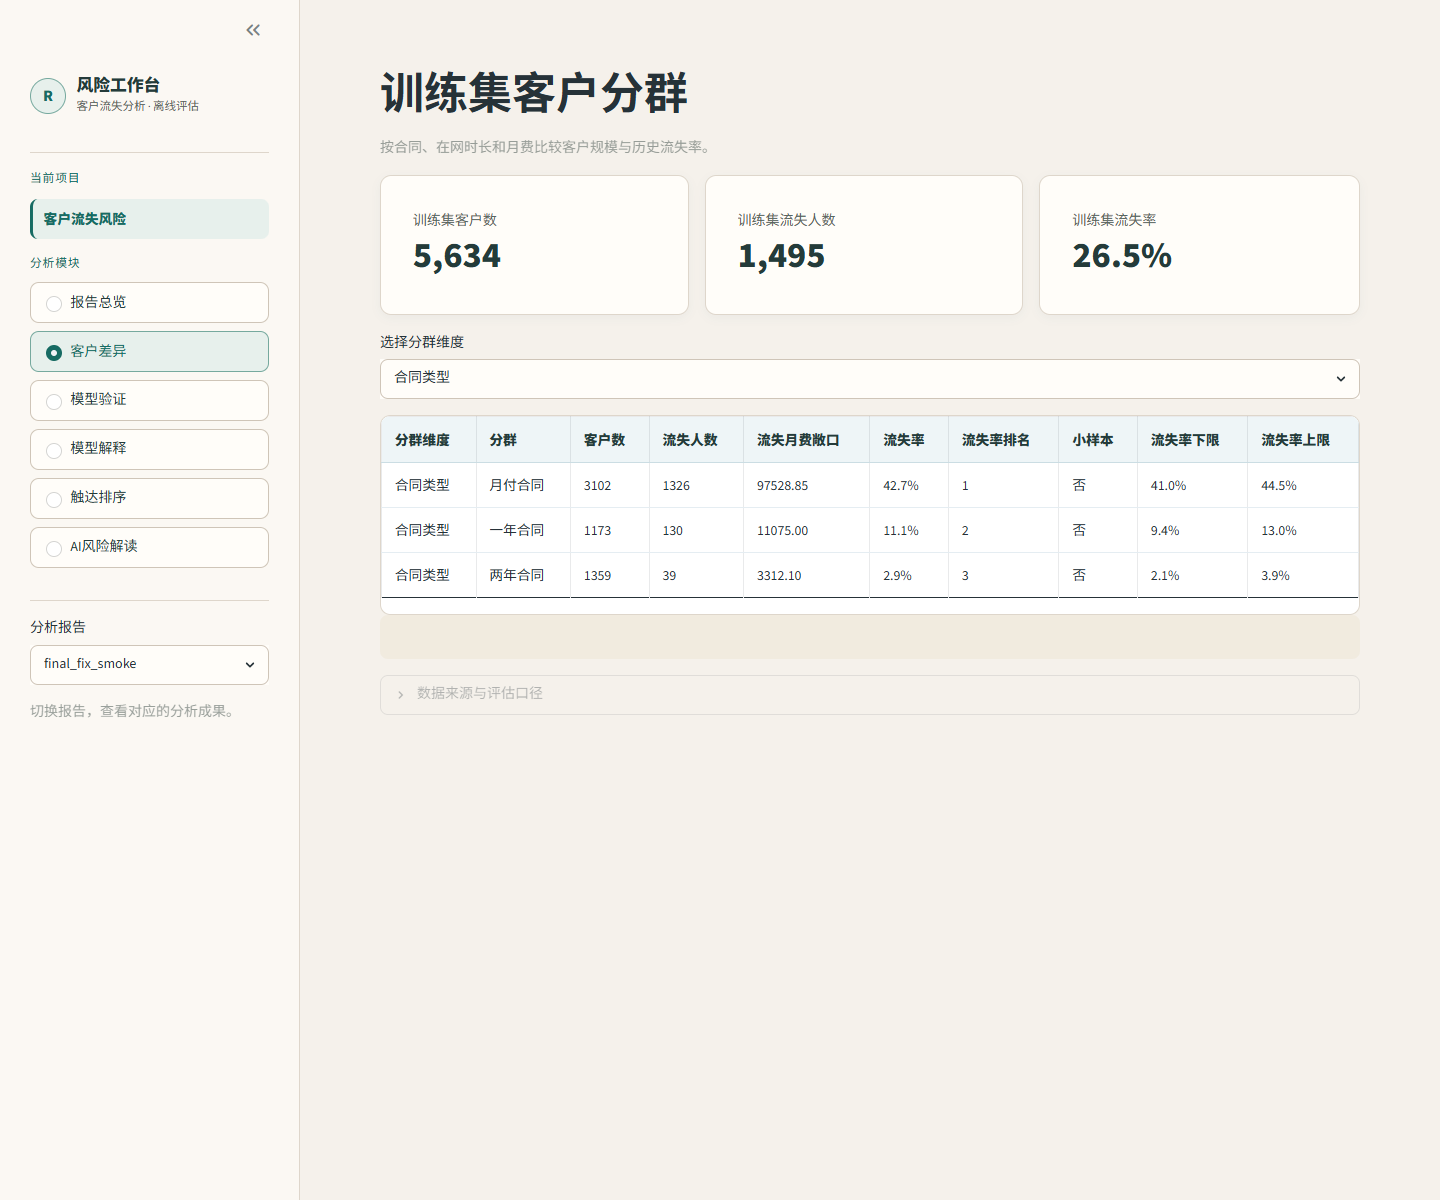
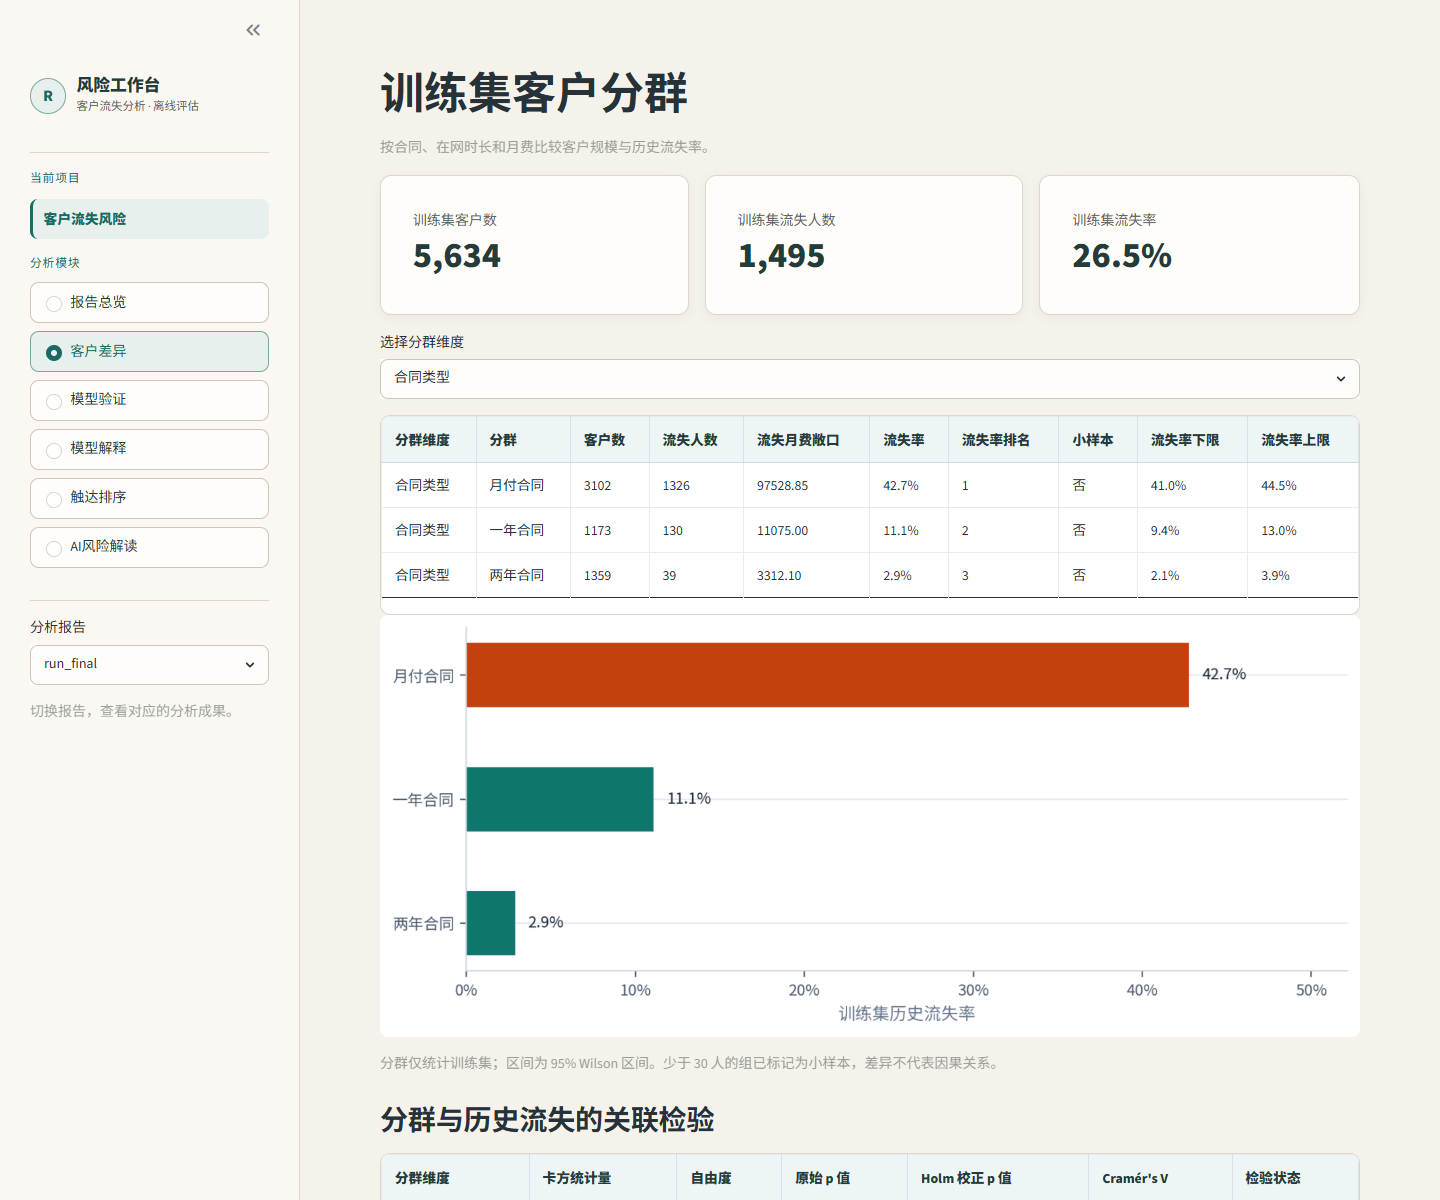
统一完整报告文档与展示

diff --git a/scripts/capture_demo.py b/scripts/capture_demo.py
@@ -23,11 +23,12 @@ def main():
     parser = argparse.ArgumentParser(description=__doc__)
     parser.add_argument("--browser", help="Optional path to an already installed Chromium executable")
     parser.add_argument("--report", default="run_final", help="Report directory name selected in the dashboard")
+    parser.add_argument("--url", default="http://127.0.0.1:8501", help="Dashboard URL")
     args = parser.parse_args()
     with sync_playwright() as playwright:
         browser = playwright.chromium.launch(executable_path=args.browser)
         page = browser.new_page(viewport={"width": 1440, "height": 1100}, device_scale_factor=1)
-        page.goto("http://127.0.0.1:8501", wait_until="domcontentloaded")
+        page.goto(args.url, wait_until="domcontentloaded")
         page.get_by_role("heading", name="电信客户流失预测与排序", exact=True).wait_for(timeout=60000)
         report = page.get_by_role("combobox", name="分析报告")
         report.click()

diff --git a/tests/test_project.py b/tests/test_project.py
@@ -802,7 +802,7 @@ def test_chinese_chart_font_without_system_fonts(monkeypatch):
 
 
 def test_deployment_demo_includes_matching_ai_context():
-    report = ROOT / "outputs" / "project_v1"
+    report = ROOT / "outputs" / "run_final"
     metrics = json.loads((report / "metrics.json").read_text(encoding="utf-8"))
     model = metrics["交叉验证"]["选择模型"]
     context = pd.read_csv(report / "ai_customer_context.csv", dtype={"customerID": "string"})

diff --git a/README.md b/README.md
@@ -21,16 +21,16 @@
 
 代码覆盖 SQL 分群检验、嵌套交叉验证、特征消融、概率校准对照和 Streamlit 看板。每个外层训练折只搜索一次基模型参数，再用固定模型交叉拟合 sigmoid 校准；阈值和预算情景只由训练集折外预测确定。
 
-![新版报告总览：LightGBM、历史留出AP与优先名单](docs/demo-v3-overview.png)
+![完整预算报告总览：LightGBM、历史留出AP与优先名单](docs/demo-v3-overview.png)
 
 ## 结果速览
 
-当前工作区的受控验证报告位于 [`outputs/final_fix_smoke`](outputs/final_fix_smoke/metrics.json)（随机种子 `42`，3 折 × 1 次重复、内层 2 折、1 次 Optuna trial、20 次 Bootstrap）。它用于验证修复后的代码通路，不替代完整预算实验。
+当前唯一权威报告位于 [`outputs/run_final`](outputs/run_final/metrics.json)（随机种子 `42`，5 折 × 3 次重复、内层 3 折、每折 30 次 Optuna trial、1000 次 Bootstrap）。
 
-- 该次运行的外层 AP 均值为：逻辑回归 `0.6630 ± 0.0068`、随机森林 `0.6562 ± 0.0217`、LightGBM `0.6463 ± 0.0124`，因此该次运行选择逻辑回归。小预算结果不用于代表完整实验性能。
-- 历史留出集按前 10% 名额（140 人）排序时，LightGBM 命中 111 名历史流失客户，Precision@140 为 `79.29%`，Lift 为 `2.99`。命中数是离线排序结果，不代表实际挽留成功。
+- 完整运行的外层 AP 均值为：逻辑回归 `0.6640 ± 0.0198`、随机森林 `0.6587 ± 0.0221`、LightGBM `0.6645 ± 0.0204`，因此按外层均值选择 LightGBM。
+- 历史留出集按前 10% 名额（140 人）排序时，LightGBM 命中 106 名历史流失客户，Precision@140 为 `75.71%`，Lift 为 `2.85`。命中数是离线排序结果，不代表实际挽留成功。
 - 校准是否用于最终推理由每个模型的外层 Brier 对照决定；该次运行逻辑回归使用原始模型，随机森林和 LightGBM 使用 sigmoid 校准模型。校准不保证在每次留出集上改善。
-- 风险排序与期望价值排序分别生成预算曲线；该次运行两者都选择 `45%` 名额，冻结情景净收益分别为 `52,043.74` 元和 `54,153.88` 元，仅表示这次受控运行的假设结果。
+- 风险排序与期望价值排序分别生成预算曲线；完整运行的价值排序选择 `45%` 名额，冻结情景净收益为 `53,399.68` 元，仅表示当前假设结果。
 
 > [!NOTE]
 > 这里的“命中”指历史留出样本的标签为流失。该留出集曾用于开发复核，并非独立盲测；区间条件于已拟合模型，不包含训练和选模不确定性。
@@ -41,7 +41,7 @@
 
 ```bash
 python -m pip install -r requirements.txt
-python -m streamlit run dashboard.py -- --output outputs/final_fix_smoke
+python -m streamlit run dashboard.py -- --output outputs/run_final
 ```
 
 <details>
@@ -97,7 +97,7 @@ python -m pytest -q
   </tr>
   <tr>
     <td width="100%" valign="top">
-      <img src="docs/demo-v3-policy.png" alt="触达排序：140人名额、109人命中和策略对照" width="100%" style="height: auto;" />
+      <img src="docs/demo-v3-policy.png" alt="触达排序：140人名额、106人命中和策略对照" width="100%" style="height: auto;" />
       <p align="center"><b>触达排序</b><br>对比 10% 固定容量下的各策略命中人数与 Lift，另单独列出训练 OOF 选出的冻结名额和 27 组成本收益假设。</p>
     </td>
   </tr>
@@ -136,7 +136,7 @@ python -m pytest -q
 
 | 模型 | 外层 AP（均值 ± 折间 SD） | 留出集 AP | 留出集 ROC-AUC | 训练 OOF 阈值 | 留出集 F1 |
 |:---|---:|---:|---:|---:|---:|
-| LightGBM | 0.6652 ± 0.0192 | 0.6695 | 0.8482 | 0.2677 | 0.6375 |
+| LightGBM | 0.6645 ± 0.0204 | 0.6589 | 0.8459 | 0.2677 | 0.6375 |
 | 逻辑回归 | 0.6636 ± 0.0188 | 0.6498 | 0.8453 | 0.2796 | 0.6075 |
 | 随机森林 | 0.6601 ± 0.0211 | 0.6578 | 0.8464 | 0.3262 | 0.6239 |
 
@@ -148,21 +148,21 @@ python -m pytest -q
 
 | 排序方式 | 命中历史流失人数 | Precision@140 | Recall@140 | Lift@140 |
 |:---|---:|---:|---:|---:|
-| LightGBM | 109 | 77.86% | 29.14% | 2.93 |
+| LightGBM | 106 | 75.71% | 28.07% | 2.85 |
 | 随机森林 | 107 | 76.43% | 28.61% | 2.88 |
 | 逻辑回归 | 105 | 75.00% | 28.07% | 2.83 |
 | 短在网时长规则 | 87 | 62.14% | 23.26% | 2.34 |
 | 随机选择期望 | 37.16 | 26.54% | 9.94% | 1.00 |
 
-LightGBM 的 Precision@140 为 `77.86%`，95% Bootstrap 区间为 `70.00%–85.00%`。区间按客户重采样并保持固定名额；它条件于已拟合模型，不包含训练、调参或模型选择带来的不确定性。
+LightGBM 的 Precision@140 为 `75.71%`。区间按客户重采样并保持固定名额；它条件于已拟合模型，不包含训练、调参或模型选择带来的不确定性。
 
 如果给外呼加上成本收益假设（基准设为触达成本 50 元/人、挽留成功多留存 12 个月、成功率 30%，用客户自己的 `MonthlyCharges` 近似月收入），代码会分别按风险分数和 `概率 × 月费` 价值代理选择名额，并在 `business_scenarios.csv` 中保留两套结果。月费不等于毛利或真实 CLV，这组数字只作敏感性参考。
 
 ### 特征消融与概率校准
 
-![与看板统一风格的校准小图、PR曲线和Brier对照](outputs/final_fix_smoke/calibration_pr.png)
+![与看板统一风格的校准小图、PR曲线和Brier对照](outputs/run_final/calibration_pr.png)
 
-固定逻辑回归家族、共享同一组外层折做四组对比；`ablation_summary.csv` 同时记录相对原始特征的配对差值区间和 Holm 校正 p 值（逐折明细见 [`ablation_folds.csv`](outputs/final_fix_smoke/ablation_folds.csv)）。
+固定逻辑回归家族、共享同一组外层折做四组对比；`ablation_summary.csv` 同时记录相对原始特征的配对差值区间和 Holm 校正 p 值（逐折明细见 [`ablation_folds.csv`](outputs/run_final/ablation_folds.csv)）。
 
 上图右表是校准前后的历史留出集 Brier 分数（越低越好）。最终是否使用校准模型以外层 Brier 决策，而不是根据这一个留出集反向选模；sigmoid 也不保证改善概率质量。
 
@@ -184,12 +184,12 @@ telco-churn-ranking/
 ├── sql/segment_analysis.sql        # 分群汇总、交叉表与窗口排名查询
 ├── optional_ai/assistant.py        # 客户资料解读模板与可选接口调用
 ├── tests/test_project.py           # 端到端流程与看板 AppTest 测试
-├── outputs/final_fix_smoke/        # 本轮修复后的受控验证报告
+├── outputs/run_final/             # 唯一完整预算权威报告
 └── docs/                           # 流程图、截图、运行文档与面试核对提纲
 ```
 
 <details>
-<summary>outputs/final_fix_smoke/ 报告文件清单</summary>
+<summary>outputs/run_final/ 报告文件清单</summary>
 
 <br>
 

diff --git a/docs/INTERVIEW_GUIDE.md b/docs/INTERVIEW_GUIDE.md
@@ -1,6 +1,6 @@
 # 面试与简历核对提纲
 
-本轮实现验证数值应与 `outputs/final_fix_smoke/` 的同一次真实数据报告一致；该目录是 3 折 × 1 次重复的受控预算产物，不代表完整实验性能；历史报告只作对照。
+本轮实现验证数值统一以 `outputs/run_final/` 的完整预算报告为准：5 折 × 3 次重复、内层 3 折、每折 30 次 trial、1000 次 Bootstrap。
 
 ## 两分钟介绍
 
@@ -28,17 +28,17 @@
 14. MySQL作用？训练集临时表分群与RANK窗口统计；默认SQLite降低复现门槛。当前快照不支持行为日志窗口和真实cohort，不能为展示SQL虚造时间。
 15. 哪些借助工具？按实际开发过程说明，必须能追踪每个模块输入、输出及防泄漏边界，不以清理工具痕迹代替理解代码。
 
-## 历史完整报告可核对数字
+## 完整预算报告可核对数字
 
-- LightGBM外层AP=0.6652±0.0192、历史留出AP=0.6695；LR外层AP=0.6636±0.0188。
-- LightGBM前140人命中109，Precision=77.86%（95% Bootstrap区间70%–85%）、Lift=2.93。三组模型的Holm校正p值均>0.05，不能写显著提升。
+- LightGBM外层AP=0.6645±0.0204、历史留出AP=0.6589；LR外层AP=0.6640±0.0198。
+- LightGBM前140人命中106，Precision=75.71%、Lift=2.85。三组模型的Holm校正p值均>0.05，不能写显著提升。
 - LR全部衍生组相比原始AP均值约+0.0031；这只是均值差，不宣称显著。
 - 校准使LightGBM历史留出Brier从0.1341变为0.1355；LR也变差，因此不能把“加入校准”写成“改善概率质量”。
 - 上述数字属于历史报告，不应与本轮受控预算重跑混用。远程 CI 未运行，不能声称生产级验证。
 
 ## 本轮实现验证
 
-- `outputs/final_fix_smoke/` 使用外层3折、1次重复、内层2折、1次 trial 和20次 Bootstrap 真实重跑；`metrics.json` 记录各模型外层 AP、Precision@10%、校准 Brier 决策、风险/价值双名额选择和冻结情景净收益。
+- `outputs/run_final/` 使用完整预算真实重跑；`metrics.json` 记录各模型外层 AP、Precision@10%、校准 Brier 决策、风险/价值双名额选择和冻结情景净收益。
 - 本轮输出同时包含 `budget_training_oof.csv`（纯风险排序）和 `budget_training_oof_value.csv`（风险×月费价值代理排序），两者目标不同，不能混作同一命中率结论。
 
 ## 简历模板（数值对应本次报告）

diff --git a/docs/RUNNING.md b/docs/RUNNING.md
@@ -91,7 +91,7 @@ python run_project.py --backend mysql --output outputs/run_mysql_new
 python -m streamlit run dashboard.py
 ```
 
-看板按最新完整报告自动选取；可手动切换。当前修复验证使用 `outputs/final_fix_smoke`；旧报告继续兼容，但有明确警示，旧截图不代表当前实测结果。
+看板按最新完整报告自动选取；可手动切换。当前权威报告为 `outputs/run_final`。
 
 AI 属于可选展示层，不参与训练或排序。未配置时用本地模板；配置 `CHURN_AI_BASE_URL/MODEL/API_KEY/TIMEOUT_SECONDS` 后，点击按钮才发送允许字段。不要在演示真实客户时向第三方发送个人资料，真实标签不发送。AI 输出需要人工核对，不能用于证明模型效果。
 
